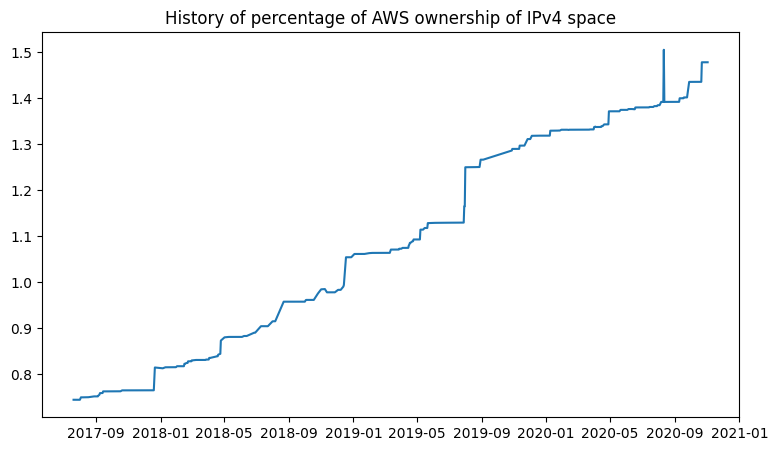
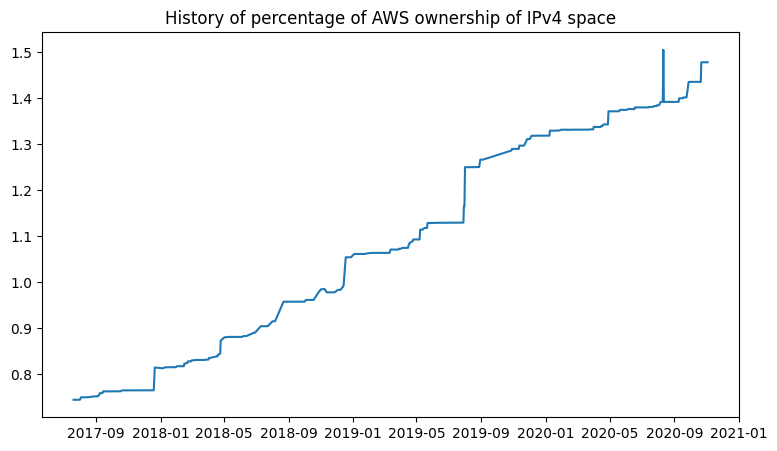
Update data files

diff --git a/README.md b/README.md
@@ -16,6 +16,7 @@ address space AWS is in control of.
 
 | | Percent | IPs | Change | CIDRs |
 | :--- | ---: | ---: | ---: | :--- |
+| 2020-11-03 00:21:10 | 1.47768 | 54707353 | +192 | +13.34.29.128/25, +13.34.30.0/26 |
 | 2020-11-02 23:41:10 | 1.47767 | 54707161 | +64 | +13.34.29.64/26 |
 | 2020-11-02 04:21:10 | 1.47767 | 54707097 | +256 | +15.230.53.0/24 |
 | 2020-10-29 02:41:16 | 1.47766 | 54706841 | +2048 | +99.150.16.0/21 |
@@ -30,7 +31,6 @@ address space AWS is in control of.
 | 2020-10-22 16:21:17 | 1.43512 | 53131809 | +24 | +52.93.50.128/28, +52.93.50.144/30, +52.93.127.122/31, ... |
 | 2020-10-19 13:21:17 | 1.43512 | 53131785 | +1 | +52.93.123.11/32 |
 | 2020-10-19 12:41:17 | 1.43512 | 53131784 | +1 | +52.93.122.255/32 |
-| 2020-10-15 12:41:17 | 1.43512 | 53131847 | +1 | +52.93.122.218/32 |
 
 
 # 15 largest changes to date:
